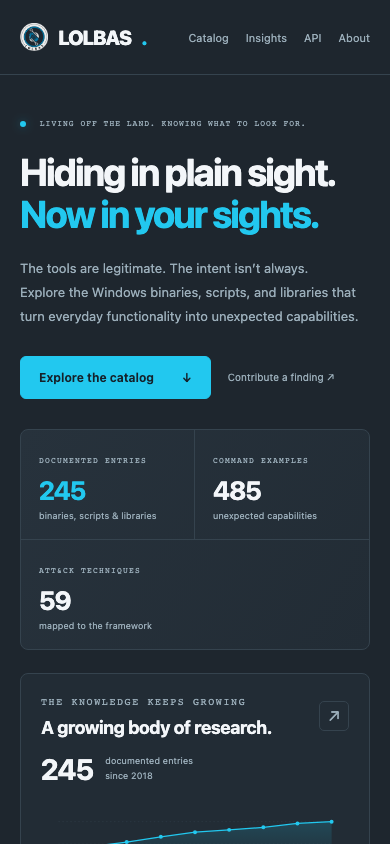
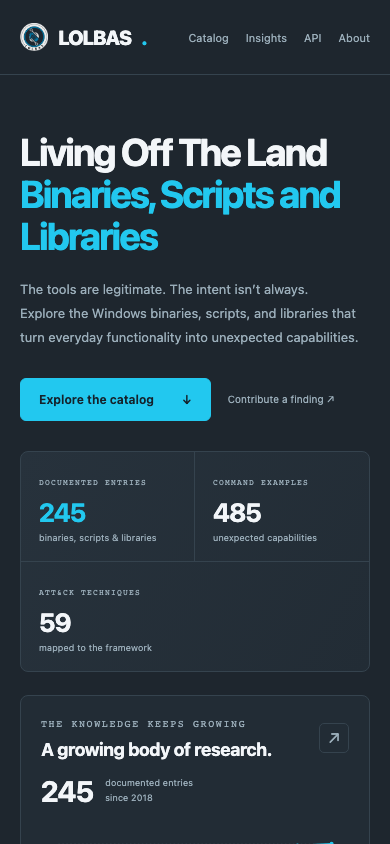
Refine LOLBAS copy, maintainer links and button contrast

diff --git a/website/tests/site.spec.ts b/website/tests/site.spec.ts
@@ -183,6 +183,65 @@ test('LOL-SITE-001 mobile layout, keyboard access and clean runtime', async ({
   expect(errors).toEqual([]);
 });
 
+test('LOL-SITE-001 about button stays readable before hover and maintainers are linked first', async ({
+  page,
+}) => {
+  await page.goto('/about/');
+  const button = page.getByRole('link', { name: 'Explore the repository' });
+  await button.scrollIntoViewIfNeeded();
+  const contrast = () =>
+    button.evaluate((node) => {
+      const style = getComputedStyle(node);
+      const luminance = (color: string) => {
+        const channels = color
+          .match(/[\d.]+/g)!
+          .slice(0, 3)
+          .map(Number)
+          .map((n) => {
+            const channel = n / 255;
+            return channel <= 0.04045
+              ? channel / 12.92
+              : ((channel + 0.055) / 1.055) ** 2.4;
+          });
+        return (
+          channels[0] * 0.2126 + channels[1] * 0.7152 + channels[2] * 0.0722
+        );
+      };
+      const foreground = luminance(style.color),
+        background = luminance(style.backgroundColor);
+      return (
+        (Math.max(foreground, background) + 0.05) /
+        (Math.min(foreground, background) + 0.05)
+      );
+    });
+  expect(await contrast()).toBeGreaterThanOrEqual(4.5);
+  await button.hover();
+  expect(await contrast()).toBeGreaterThanOrEqual(4.5);
+  await expect(page.locator('.article h2').first()).toHaveText(
+    'Project maintainers',
+  );
+  await expect(page.locator('.maintainer-list a')).toHaveCount(7);
+  for (const handle of [
+    'oddvarmoe',
+    'bohops',
+    'xenosCR',
+    'ConsciousHacker',
+    'liamsomerville',
+    'Wietze',
+    '_josehelps',
+  ]) {
+    await expect(
+      page.getByRole('link', { name: new RegExp(`@${handle}`) }),
+    ).toHaveAttribute('href', `https://x.com/${handle}`);
+  }
+  await page.setViewportSize({ width: 390, height: 844 });
+  expect(
+    await page.evaluate(
+      () => document.documentElement.scrollWidth <= innerWidth,
+    ),
+  ).toBeTruthy();
+});
+
 test('LOL-SITE-001 visual evidence for catalog, detail and mobile', async ({
   page,
 }, testInfo) => {
@@ -217,9 +276,19 @@ test('LOL-SITE-001 visual evidence for catalog, detail and mobile', async ({
   ).toBeVisible();
   await expect.poll(() => page.evaluate(() => scrollY)).toBe(0);
   await capture('lolbas-detail');
+  await page.goto('/about/');
+  await expect.poll(() => page.evaluate(() => scrollY)).toBe(0);
+  await capture('lolbas-about');
+  await page
+    .getByRole('link', { name: 'Explore the repository' })
+    .scrollIntoViewIfNeeded();
+  await capture('lolbas-about-button');
   await page.setViewportSize({ width: 390, height: 844 });
   await page.goto('/');
   await capture('lolbas-mobile');
+  await page.goto('/about/');
+  await expect.poll(() => page.evaluate(() => scrollY)).toBe(0);
+  await capture('lolbas-about-mobile');
 });
 
 test('LOL-SITE-002 styled filter menu supports pointer, keyboard and dismissal', async ({

diff --git a/website/src/styles/global.css b/website/src/styles/global.css
@@ -109,6 +109,9 @@ footer {
   color: white;
 }
 .repo-link {
+  display: inline-flex;
+  align-items: center;
+  gap: 9px;
   margin-left: auto;
   border: 1px solid var(--line);
   padding: 9px 16px;
@@ -117,7 +120,7 @@ footer {
 }
 .repo-link span {
   color: var(--accent);
-  margin-left: 15px;
+  margin-left: 6px;
 }
 .eyebrow {
   display: block;
@@ -146,7 +149,7 @@ footer {
   align-items: center;
 }
 .hero h1 {
-  font-size: clamp(36px, 4.2vw, 57px);
+  font-size: clamp(34px, 3.65vw, 52px);
   line-height: 1.1;
   letter-spacing: -2.8px;
   margin: 21px 0;
@@ -512,33 +515,9 @@ footer {
 .catalog-section {
   scroll-margin-top: 20px;
 }
-.community-strip {
-  display: flex;
-  gap: 24px;
-  align-items: center;
-  margin: 40px 0 65px;
-  padding: 28px 30px;
-  border: 1px solid var(--line);
-  border-radius: 8px;
-  background: linear-gradient(120deg, #22c8ef08, transparent);
-}
-.community-symbol {
-  font: 48px var(--mono);
-  color: var(--accent);
-}
-.community-strip h2 {
-  font-size: 21px;
-  letter-spacing: -0.5px;
-  margin: 8px 0;
-}
-.community-strip p {
-  font-size: 11px;
-  color: var(--muted);
-  margin: 0;
-}
-.community-strip .button {
-  margin-left: auto;
-  white-space: nowrap;
+.contribute-link {
+  margin: 30px 0 48px;
+  text-align: center;
 }
 footer {
   border-top: 1px solid var(--line);
@@ -623,9 +602,6 @@ footer small {
   }
   .entry-name small {
     max-width: 200px;
-  }
-  .community-strip .button {
-    gap: 10px;
   }
   .header {
     gap: 40px;
@@ -770,24 +746,6 @@ footer small {
   }
   .pagination button {
     padding: 7px;
-  }
-  .community-strip {
-    padding: 20px;
-    flex-wrap: wrap;
-    gap: 15px;
-    margin-bottom: 35px;
-  }
-  .community-symbol {
-    display: none;
-  }
-  .community-strip h2 {
-    font-size: 19px;
-  }
-  .community-strip p {
-    line-height: 1.8;
-  }
-  .community-strip .button {
-    margin-left: 0;
   }
   footer {
     gap: 20px;

diff --git a/website/src/styles/pages.css b/website/src/styles/pages.css
@@ -155,7 +155,33 @@ code {
   margin-top: 35px;
   font-size: 24px;
 }
-.article a {
+.article a:not(.button) {
+  color: var(--accent);
+}
+.maintainers h2 {
+  margin-top: 0;
+}
+.maintainer-list {
+  display: grid;
+  grid-template-columns: repeat(auto-fit, minmax(210px, 1fr));
+  gap: 0 24px;
+  padding: 0;
+  list-style: none;
+  margin: 20px 0 38px;
+}
+.maintainer-list a {
+  display: flex;
+  flex-direction: column;
+  padding: 12px 0;
+  border-bottom: 1px solid var(--line);
+}
+.maintainer-list a span {
+  color: var(--text);
+}
+.maintainer-list small {
+  font-size: 12px;
+}
+.maintainer-list a:hover span {
   color: var(--accent);
 }
 .article .panel {

diff --git a/website/tests/preview.spec.ts b/website/tests/preview.spec.ts
@@ -17,7 +17,9 @@ test('LOL-CI-001 hosted fork preview keeps navigation, assets and data under its
   await context.grantPermissions(['clipboard-read', 'clipboard-write']);
   await page.goto(`${base}/`);
   await expect(
-    page.getByRole('heading', { name: 'Hiding in plain sight.' }),
+    page.getByRole('heading', {
+      name: 'Living Off The Land Binaries, Scripts and Libraries',
+    }),
   ).toBeVisible();
   expect(
     await page
